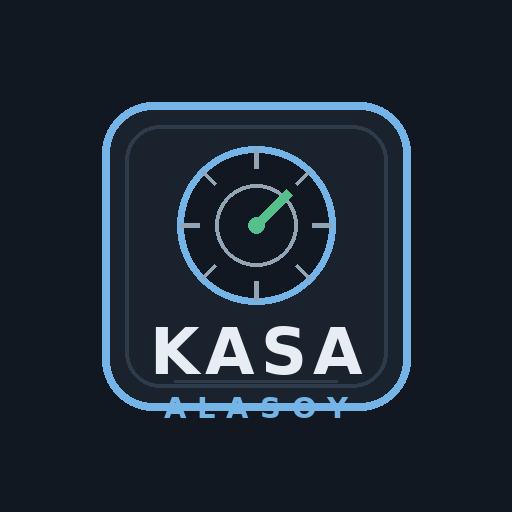
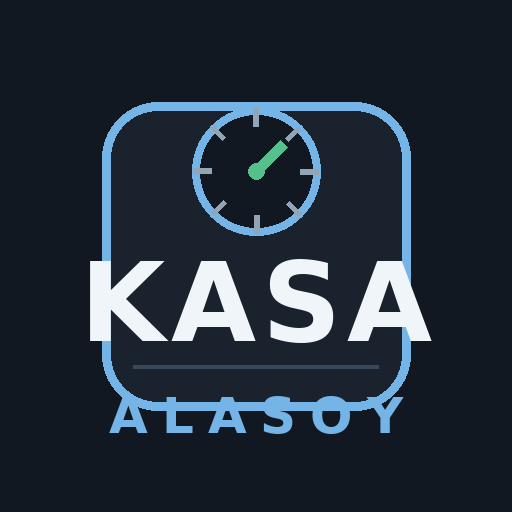
Ikon: KASA ve ALASOY yazilari buyutuldu
Kadran kuculdu, yaziya yer acildi. Kucuk boyutta da okunuyor.

Claude-Session: https://claude.ai/code/session_019fZZauPaRkpGKyR8Y6sGoz

Changed region(s): [[0.1562, 0.1875, 0.8438, 0.875]]

diff --git a/app.js b/app.js
@@ -15,7 +15,7 @@ var AYLAR=["Ocak","Şubat","Mart","Nisan","Mayıs","Haziran","Temmuz","Ağustos"
 var GUNLER=["Pazar","Pazartesi","Salı","Çarşamba","Perşembe","Cuma","Cumartesi"];
 var TAKSITLER=[1,2,3,4,5,6,8,9,10,12,18,24];
 var ANAHTAR="harcama-defteri-v1";
-var SURUM_ADI="1.4";
+var SURUM_ADI="1.5";
 
 // kategori anahtar kelimeleri (yerel çözümleyici için)
 var IPUCU_GIDER=[

diff --git a/sw.js b/sw.js
@@ -1,7 +1,7 @@
 /* KASA — service worker.
    Uygulama dosyaları: önce ağ, olmazsa önbellek (güncellemeler anında gelsin).
    İnternet yoksa her şey önbellekten çalışır. */
-var SURUM = "kasa-v6";
+var SURUM = "kasa-v7";
 var DOSYALAR = [
   "./",
   "./index.html",
